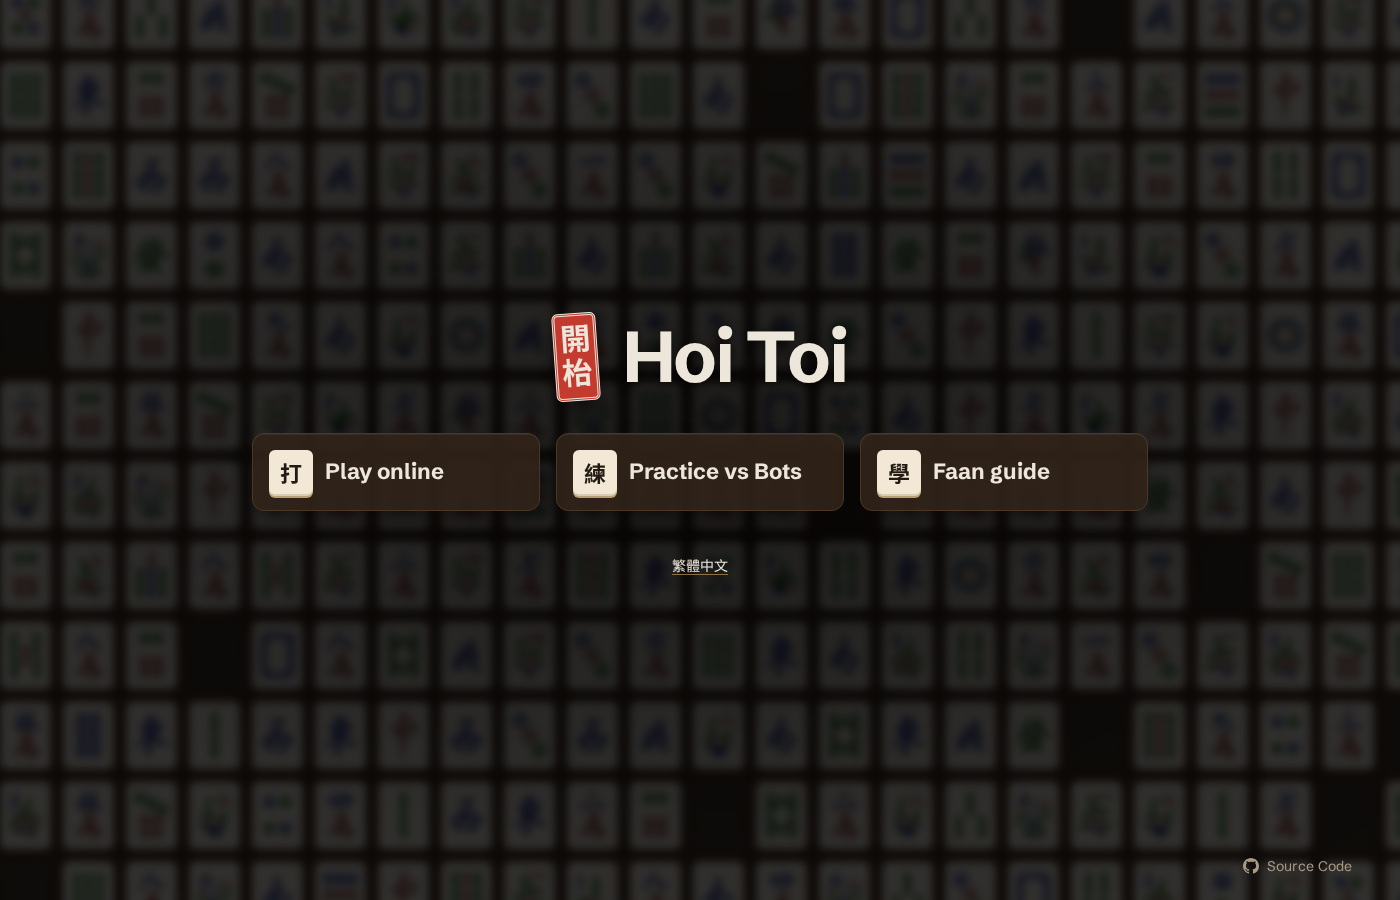
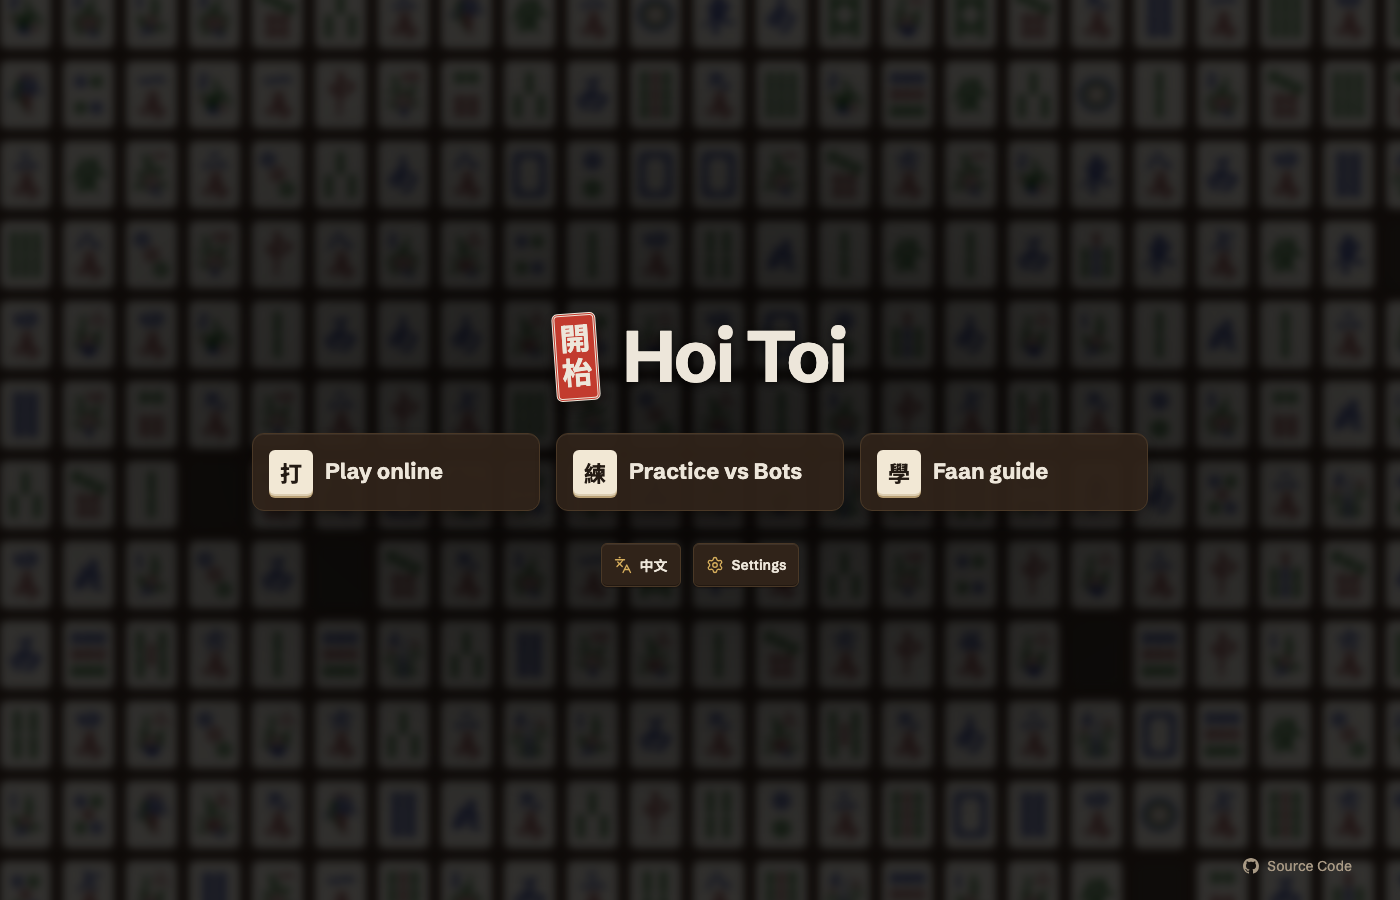
feat(web): add lobby settings and language buttons
- lobby Settings button opens the shared Settings panel, loading
  prefs from storage on open since the lobby is SSR'd
- language toggle becomes a matching icon button with a shorthand
  label (中文 / EN), full name kept as its accessible name
- play online link opts into the click sound

diff --git a/web/src/routes/+page.svelte b/web/src/routes/+page.svelte
@@ -5,14 +5,43 @@
 	import GuideDialog from '$lib/ui/GuideDialog.svelte';
 	import PracticeSetupDialog from '$lib/ui/PracticeSetupDialog.svelte';
 	import { claimMuralVisible } from '$lib/ui/mural-visibility.svelte';
+	import Languages from '@lucide/svelte/icons/languages';
+	import SettingsIcon from '@lucide/svelte/icons/settings';
+	import DismissablePanel from '$lib/ui/DismissablePanel.svelte';
+	import Settings from '$lib/ui/Settings.svelte';
+	import type { AutoArm, ClientPrefs } from '$lib/ui/client-prefs';
+	import { applyClientPrefs } from '$lib/ui/apply-client-prefs';
+	import {
+		DEFAULT_AUTO_ARM,
+		DEFAULT_CLIENT_PREFS,
+		loadAutoArm,
+		loadClientPrefs,
+		saveAutoArm,
+		saveClientPrefs
+	} from '$lib/ui/settings-storage';
 
 	claimMuralVisible();
+
+	const ICON = { size: 18, strokeWidth: 1.8 };
+	const otherLocale = getLocale() === 'en' ? 'zh-Hant' : 'en';
 
 	// practice mode: a solo table with seats 1-3 bot-bound at creation. Opens a difficulty-picker
 	// dialog first since bot tier is fixed at construction; `?practice=1` here is unrelated in spelling to the wire's `&practice=true`.
 	let showPracticeDialog = $state(false);
 
 	let showGuide = $state(false);
+
+	// read on open, not at init: the lobby is server-rendered, where storage is unavailable.
+	// autoArm only persists here; the table page re-sends it on its next connection.
+	let showSettings = $state(false);
+	let autoArm: AutoArm = $state({ ...DEFAULT_AUTO_ARM });
+	let clientPrefs: ClientPrefs = $state({ ...DEFAULT_CLIENT_PREFS });
+
+	function openSettings(): void {
+		autoArm = loadAutoArm() ?? { ...DEFAULT_AUTO_ARM };
+		clientPrefs = loadClientPrefs() ?? { ...DEFAULT_CLIENT_PREFS };
+		showSettings = true;
+	}
 
 	function handlePracticeCreated(tableId: string): void {
 		showPracticeDialog = false;
@@ -39,7 +68,7 @@
 		<ul class="actions">
 			<li class="action-card">
 				<span class="action-glyph" aria-hidden="true">{m.lobby_playOnlineGlyph()}</span>
-				<a class="action-title" data-testid="lobby-play-online" href="/tables"
+				<a class="action-title" data-testid="lobby-play-online" data-sfx="on" href="/tables"
 					>{m.lobby_playOnlineButton()}</a
 				>
 			</li>
@@ -63,16 +92,30 @@
 			</li>
 		</ul>
 
-		<nav class="quiet-links">
+		<div class="utility-bar">
+			<!-- shorthand label, full target-language name as the accessible name -->
 			<button
 				type="button"
-				class="quiet-link"
+				class="utility-btn"
 				data-testid="lobby-language"
-				onclick={() => setLocale(getLocale() === 'en' ? 'zh-Hant' : 'en')}
+				lang={otherLocale}
+				aria-label={m.lobby_languageButton()}
+				onclick={() => setLocale(otherLocale)}
 			>
-				{m.lobby_languageButton()}
+				<Languages {...ICON} />
+				<span>{m.lobby_languageShort()}</span>
 			</button>
-		</nav>
+			<button
+				type="button"
+				class="utility-btn"
+				data-testid="lobby-settings"
+				aria-haspopup="dialog"
+				onclick={openSettings}
+			>
+				<SettingsIcon {...ICON} />
+				<span>{m.settings_title()}</span>
+			</button>
+		</div>
 	</div>
 
 	<a
@@ -95,6 +138,24 @@
 	<GuideDialog onClose={() => (showGuide = false)} />
 {/if}
 
+{#if showSettings}
+	<DismissablePanel onClose={() => (showSettings = false)} label={m.settings_title()}>
+		<Settings
+			{autoArm}
+			prefs={clientPrefs}
+			onAutoArmChange={(next) => {
+				autoArm = next;
+				saveAutoArm(next);
+			}}
+			onPrefsChange={(next) => {
+				clientPrefs = next;
+				saveClientPrefs(next);
+				applyClientPrefs(next);
+			}}
+		/>
+	</DismissablePanel>
+{/if}
+
 {#if showPracticeDialog}
 	<PracticeSetupDialog
 		onCreated={handlePracticeCreated}
@@ -104,6 +165,7 @@
 
 <style lang="scss">
 	@use '$lib/styles/a11y';
+	@use '$lib/styles/buttons';
 	@use '$lib/styles/layout';
 
 	.lobby {
@@ -260,32 +322,29 @@
 		}
 	}
 
-	.quiet-links {
+	.utility-bar {
 		display: flex;
 		flex-wrap: wrap;
 		align-items: center;
 		justify-content: center;
-		gap: var(--space-2) var(--space-5);
-		color: var(--color-text-muted);
-		font-size: var(--font-size-sm);
+		gap: var(--space-3);
 	}
 
-	.quiet-link {
+	.utility-btn {
+		@include buttons.btn-base(var(--space-3));
+		@include buttons.btn-secondary;
 		display: inline-flex;
 		align-items: center;
-		min-height: var(--tap-target-min);
-		padding: 0 var(--space-1);
-		border: none;
-		background: none;
-		color: var(--color-text);
-		font: inherit;
-		text-decoration: underline;
-		text-decoration-color: color-mix(in srgb, var(--color-brass) 60%, transparent);
-		text-underline-offset: 0.2em;
-		cursor: pointer;
+		gap: var(--space-2);
+		font-size: var(--font-size-sm);
 
-		&:hover {
+		:global(svg) {
+			flex-shrink: 0;
 			color: var(--color-brass);
+		}
+
+		&:focus-visible {
+			@include a11y.focus-ring;
 		}
 	}
 

diff --git a/web/src/routes-tests/lobby/page.svelte.spec.ts b/web/src/routes-tests/lobby/page.svelte.spec.ts
@@ -49,4 +49,42 @@ describe('LobbyPage', () => {
 		await Promise.resolve();
 		expect(target.querySelector('dialog')?.open).toBe(true);
 	});
+
+	it('opens Settings from the button beside the language toggle, with stored prefs', async () => {
+		localStorage.setItem(
+			'mahjong:clientPrefs:v1',
+			JSON.stringify({ soundEnabled: true, motion: 'system', sfxVolume: 35 })
+		);
+		component = mount(LobbyPage, { target });
+		const settingsButton = target.querySelector<HTMLButtonElement>(
+			'[data-testid="lobby-settings"]'
+		)!;
+		expect(settingsButton.previousElementSibling?.getAttribute('data-testid')).toBe(
+			'lobby-language'
+		);
+		settingsButton.click();
+		await Promise.resolve();
+		expect(target.querySelector('dialog')?.open).toBe(true);
+		const volume = target.querySelector<HTMLInputElement>('[data-testid="settings-sfx-volume"]')!;
+		expect(volume.valueAsNumber).toBe(35);
+		localStorage.clear();
+	});
+
+	it('shows the language toggle as a shorthand, named in full for assistive tech', () => {
+		component = mount(LobbyPage, { target });
+		const language = target.querySelector<HTMLButtonElement>('[data-testid="lobby-language"]')!;
+		expect(language.textContent?.trim()).toBe('lobby_languageShort');
+		expect(language.getAttribute('aria-label')).toBe('lobby_languageButton');
+		expect(language.querySelector('svg')).not.toBeNull();
+		expect(
+			target.querySelector('[data-testid="lobby-settings"] svg'),
+			'settings button carries an icon'
+		).not.toBeNull();
+	});
+
+	it('marks the play-online link for the button click sound', () => {
+		component = mount(LobbyPage, { target });
+		const play = target.querySelector('[data-testid="lobby-play-online"]')!;
+		expect(play.getAttribute('data-sfx')).toBe('on');
+	});
 });

diff --git a/docs/frontend.md b/docs/frontend.md
@@ -617,7 +617,7 @@ Rules:
 
 ### Settings dialog
 
-`lib/ui/Settings.svelte`, opened from the table header (`DismissablePanel`). Three tabs
+`lib/ui/Settings.svelte`, opened from the table header and the lobby (§7) (`DismissablePanel`). Three tabs
 (`TabBar.svelte`, shared with the custom rules editor: `role="tablist"`, roving focus, `←`/`→`
 wrap, `Home`/`End`):
 
@@ -842,8 +842,13 @@ are peers by design. "Play online" is a link to `/tables`, the one multiplayer h
 by code, browse): invitees arrive by table URL, not through the lobby, so separate create/join
 entries here split one intent across two controls. The other two are `<button>`s opening dialogs.
 Each card's control holds only the title (its accessible name, which e2e matches exactly), and its
-`::after` stretches the hit area over the whole card. Below the cards, a quiet underlined language
-toggle. A muted "Source code" link (GitHub mark + label, new tab) sits in the page's
+`::after` stretches the hit area over the whole card. Below the cards, two secondary-tier buttons
+(`btn-secondary`, brass lucide icon): a language toggle and Settings. The toggle shows a shorthand
+of the other locale (`中文` / `EN`, `lobby_languageShort`), with the full name
+(`lobby_languageButton`) as its `aria-label` and the target locale as its `lang`. Settings opens
+the same `Settings.svelte` panel as the table (§6), loading prefs and `autoArm` from storage on
+open (the lobby is SSR'd). Changes are saved and applied immediately; `autoArm` is only saved,
+and the table re-sends it on its next connection. A muted "Source code" link (GitHub mark + label, new tab) sits in the page's
 bottom-right corner. Three columns at ≥768px, one stacked column below. The mural scrim (§2) is darker in the
 middle (a radial gradient) so this copy reads over the tiles.
 
